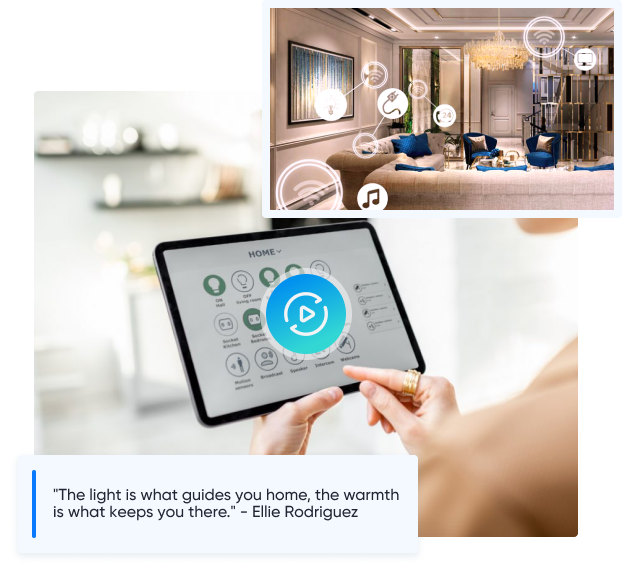
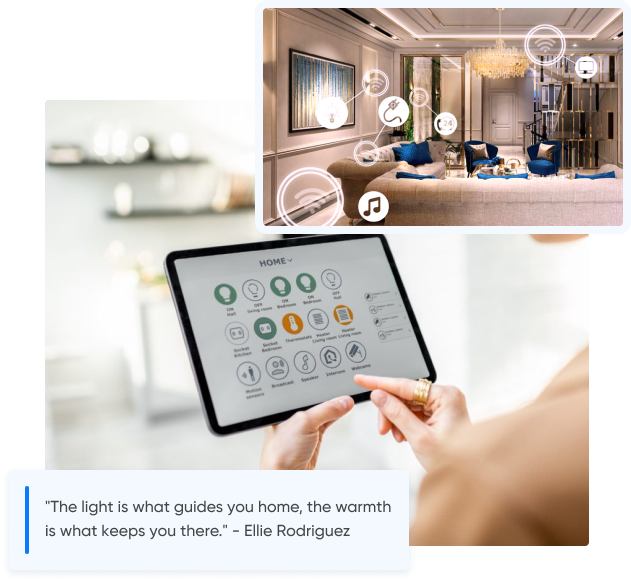
update layout and css home page

diff --git a/src/pages/home-page-v3/body/section-smart-lighting.jsx b/src/pages/home-page-v3/body/section-smart-lighting.jsx
@@ -6,8 +6,11 @@ import imgSmartLightingRight from "@images/home-page-v3/png/img-smart-lighting-r
 import imgSmartRemoteControl from "@images/home-page-v3/svg/icon-remote-control.svg";
 import imgSmartBrightnessControl from "@images/home-page-v3/svg/icon-brightness-control.svg";
 import imgSmartEnergy from "@images/home-page-v3/svg/icon-energy.svg";
+import ModalAdvise from "@components/modal/modal-advise/ModalAdvise";
 
 function SectionSmartLighting() {
+  const [modalShow, setModalShow] = React.useState(false);
+
   const listItemCard = [
     {
       id: 0,
@@ -71,7 +74,10 @@ function SectionSmartLighting() {
               </p>
             </div>
             <div className="btn-group">
-              <button className="advise-now-btn">
+              <button
+                className="advise-now-btn"
+                onClick={() => setModalShow(true)}
+              >
                 <span>Tư vấn ngay</span>
               </button>
               <button className="learn-more-btn">
@@ -112,6 +118,7 @@ function SectionSmartLighting() {
           </Col>
         </Row>
       </div>
+      <ModalAdvise show={modalShow} onHide={() => setModalShow(false)} />
     </section>
   );
 }

diff --git a/src/pages/home-page-v3/body/section-solution.jsx b/src/pages/home-page-v3/body/section-solution.jsx
@@ -1,5 +1,6 @@
 import React from "react";
 import { Col, Row, Image } from "react-bootstrap";
+import { Link } from "gatsby";
 import styled from "styled-components";
 import imgRight from "@images/home-page-v3/img-solution-smart.png";
 import imgLeft from "@images/home-page-v3/img-smart-life.png";
@@ -114,9 +115,11 @@ const SectionSolution = () => {
                 <li key={solution.id}>{solution.desc}</li>
               ))}
             </ul>
-            <button type="button" className="btn-gradient-blue">
-              <span>Khám phá ngay</span>
-            </button>
+            <Link to="/about-us-v3">
+              <button type="button" className="btn-gradient-blue">
+                <span>Khám phá ngay</span>
+              </button>
+            </Link>
           </Col>
           <Col lg={6} className="">
             <img src={imgRight} alt="" className="solution-about-img" />

diff --git a/src/pages/home-page-v3/index.jsx b/src/pages/home-page-v3/index.jsx
@@ -1,8 +1,6 @@
 import React from "react";
-import dataMeta from "@data/dataMeta.json";
 
 import Seo from "@components/seo";
-import "@i18n/i18n";
 import "swiper/css/effect-fade";
 import "./style.scss";
 
@@ -13,12 +11,9 @@ import SectionSmartLighting from "./body/section-smart-lighting";
 import SectionSmartParking from "./body/section-smart-parking";
 import SectionHelpMore from "../../components/help-more/section-help-more";
 import SectionProduct from "./body/section-product";
-import { useTranslation } from "react-i18next";
 import LayoutV3 from "../../components/layout-v3";
 
 const IndexPage = () => {
-  const { t } = useTranslation();
-
   return (
     <LayoutV3>
       <Seo title="Sliving" description="Sliving" url="https://sliving.vn" />

diff --git a/src/pages/home-page-v3/style.scss b/src/pages/home-page-v3/style.scss
@@ -297,7 +297,7 @@ span.detail-v3 {
     transform: translate(-50%, -50%);
     button {
       border-radius: 68px;
-      padding: 8px 24px;
+      padding: 8px 49px;
       background-color: transparent;
       font-size: 12px;
       color: #fff;
@@ -307,6 +307,14 @@ span.detail-v3 {
       justify-content: space-between;
       span {
         margin-right: 16px;
+        color: #ffffff;
+        font-style: normal;
+        font-weight: 700;
+        font-size: 16px;
+        line-height: 24px;
+      }
+      &:hover {
+        background: rgba(255, 255, 255, 0.4);
       }
     }
   }

diff --git a/src/pages/home-page-v3/body/section-header.jsx b/src/pages/home-page-v3/body/section-header.jsx
@@ -117,7 +117,7 @@ const SectionHeader = () => {
                 />
                 <div className="contact-header-wrap">
                   <span className="hotline">Hotline</span>
-                  <span>(023) 2665 5559</span>
+                  <span>19006054</span>
                 </div>
               </div>
             </Col>

diff --git a/src/components/modal/modal-advise/ModalAdvise.scss b/src/components/modal/modal-advise/ModalAdvise.scss
@@ -27,7 +27,7 @@
     background: url("../../../images/home-page-v3/img-header-popup.png");
     background-size: cover;
     background-repeat: no-repeat;
-    min-height: 250px;
+    min-height: 220px;
     margin-top: -80px;
     margin-left: -1px;
     margin-right: -1px;

diff --git a/src/pages/index.js b/src/pages/index.js
@@ -1,5 +1,7 @@
 import React from "react";
 import HomePageV3 from "./home-page-v3/index";
+import "bootstrap/dist/css/bootstrap.min.css";
+
 const IndexPage = (props) => {
   return <HomePageV3 />;
 };
